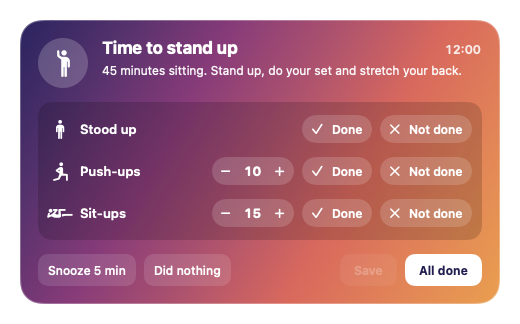
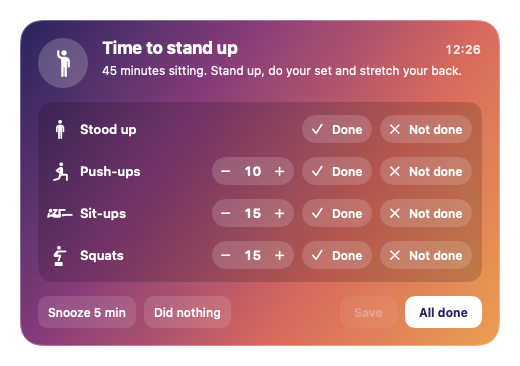
docs: describe the exercise catalog, alert styles, themes and the configurable interval

diff --git a/README.pt-BR.md b/README.pt-BR.md
@@ -1,13 +1,15 @@
-# Rise: lembrete para levantar da cadeira, com flexões e abdominais, para Mac
+# Rise: lembrete para levantar da cadeira e treino em casa para Mac
 
 O **Rise** é um **app gratuito e de código aberto para a barra de menus do macOS** que lembra você de **levantar da
-cadeira a cada 45 minutos** durante o expediente e pergunta se você fez as **flexões e os abdominais**. Cada resposta
-vai para um **histórico com gráficos em linha**, para você ver quanto se mexeu em cada dia e fugir do sedentarismo
-de passar o dia sentado. É uma pausa ativa, uma ginástica laboral no seu ritmo.
+cadeira no intervalo que você escolher** (a cada 45 minutos, por padrão) durante o expediente e pergunta se você fez
+**a sua série de exercícios**: flexões, abdominais, agachamentos, prancha ou qualquer um dos 15 exercícios sem
+equipamento para fazer em casa ou no escritório. Cada resposta vai para um **histórico com gráficos em linha**, para
+você ver quanto se mexeu em cada dia e fugir do sedentarismo de passar o dia sentado. É uma pausa ativa, uma ginástica
+laboral no seu ritmo.
 
 🇺🇸 [Read in English](README.md)
 
-<p align="center"><img src="docs/images/card-pt.png" width="480" alt="Cartão do Rise: levantei, flexões e abdominais, cada um com Fiz ou Não fiz"></p>
+<p align="center"><img src="docs/images/card-pt.png" width="480" alt="Cartão do Rise: levantei, flexões, abdominais e agachamentos, cada um com Fiz ou Não fiz"></p>
 
 ## Baixar
 
@@ -22,16 +24,23 @@ com Apple Silicon e Intel, macOS 14 Sonoma ou mais novo.
 
 ## O que ele faz
 
-- **Lembrete para levantar** a cada 45 minutos no horário de trabalho (início, fim, intervalo e dias da semana você
-  escolhe).
-- **Um cartão que fica na tela** até você responder: por cima de qualquer app, mesa e tela cheia, sem roubar o foco
-  do teclado.
-- **Controle de flexões e abdominais**: marque *Fiz* ou *Não fiz* para levantar, flexões e abdominais, e ajuste o
-  número antes de salvar. *Fiz tudo*, *Não fiz nada* e *Adiar 5 min* são um clique.
+- **Lembrete para levantar** no intervalo que você escolher (45 minutos por padrão), no seu horário de trabalho;
+  início, fim, intervalo e dias da semana, tudo configurável.
+- **Configuração na primeira abertura**: na primeira vez o Rise pergunta o seu horário, os seus exercícios, o tipo
+  de alerta e a música.
+- **A sua série de exercícios**, até 7 por aviso, de um catálogo de 15 exercícios em casa com o músculo que cada um
+  trabalha: flexões (peito, ombros e tríceps), abdominais (abdômen), agachamentos, afundos, elevação de quadril,
+  elevação de panturrilha, mergulho na cadeira, polichinelos, burpees, escaladores, elevação de pernas,
+  super-homem, prancha, cadeirinha na parede e alongamento. Em repetições ou segundos, com o seu número para cada um.
+- **Um cartão que espera** a sua resposta: marque *Fiz* ou *Não fiz* para levantar e para cada exercício, e ajuste
+  o número. *Fiz tudo*, *Não fiz nada* e *Adiar 5 min* são um clique. Ele não rouba o foco do teclado.
+- **Quatro tipos de alerta**: cartão no canto, cartão no meio da tela, tela cheia (a tela escurece até você
+  responder) ou discreto (só o ícone da barra e a música).
 - **Música no aviso**: escolha um dos toques musicais que vêm no macOS ou use uma música sua, com volume e botão
   para ouvir antes.
-- **Histórico com gráficos em linha** de 7 e 30 dias (flexões, abdominais e levantadas por dia) e a lista de todos
-  os avisos, inclusive os que ficaram sem resposta. Dá para apagar um registro errado.
+- **Histórico com gráficos em linha** de 7 e 30 dias (repetições, exercícios de tempo e levantadas por dia) e a lista
+  de todos os avisos, inclusive os que ficaram sem resposta. Dá para apagar um registro errado.
+- **Temas**: Nascer do sol, Oceano, Floresta, Uva, Grafite e Brasa, no modo claro, escuro ou automático.
 - **Menu na barra**: próximo aviso, o total de hoje, registrar uma série à mão, pular o próximo aviso, pausar hoje.
 - **Português do Brasil e inglês**, automático ou escolhido em Ajustes.
 - **Privado**: sem conta, sem internet, sem rastreio. Tudo fica no seu Mac, em
@@ -41,8 +50,11 @@ com Apple Silicon e Intel, macOS 14 Sonoma ou mais novo.
 ## Telas
 
 <p align="center">
-  <img src="docs/images/today-pt.png" width="380" alt="Aba Hoje do Rise: próximo aviso, levantadas, flexões e abdominais do dia">
-  <img src="docs/images/history-pt.png" width="380" alt="Aba Histórico do Rise: gráficos em linha de flexões, abdominais e levantadas por dia">
+  <img src="docs/images/today-pt.png" width="380" alt="Aba Hoje do Rise: próximo aviso e as levantadas, flexões, abdominais e agachamentos do dia">
+  <img src="docs/images/history-pt.png" width="380" alt="Aba Histórico do Rise: gráficos em linha de repetições, segundos de prancha e levantadas por dia">
+</p>
+<p align="center">
+  <img src="docs/images/setup-pt.png" width="380" alt="Configuração do Rise na primeira abertura: horário, exercícios, tipo de alerta e música">
 </p>
 
 ## Gerar a partir do código

diff --git a/README.md b/README.md
@@ -1,12 +1,14 @@
-# Rise: stand-up reminder with push-ups and sit-ups for macOS
+# Rise: stand-up reminder and home workout tracker for macOS
 
-**Rise** is a free and open-source **macOS menu bar app** that reminds you to **stand up every 45 minutes** while you
-work, and asks whether you did your **push-ups and sit-ups**. Every answer goes into a **workout history with line
-charts**, so you can see how much you moved each day instead of sitting all day at the desk.
+**Rise** is a free and open-source **macOS menu bar app** that reminds you to **stand up at the interval you choose**
+(every 45 minutes by default) while you work, and asks whether you did **your set of exercises**: push-ups, sit-ups,
+squats, plank or any of 15 bodyweight exercises you can do at home or in the office. Every answer goes into a
+**workout history with line charts**, so you can see how much you moved each day instead of sitting all day at the
+desk.
 
 🇧🇷 [Leia em português](README.pt-BR.md)
 
-<p align="center"><img src="docs/images/card-en.png" width="480" alt="Rise check-in card: stood up, push-ups and sit-ups, each marked Done or Not done"></p>
+<p align="center"><img src="docs/images/card-en.png" width="480" alt="Rise check-in card: stood up, push-ups, sit-ups and squats, each marked Done or Not done"></p>
 
 ## Download
 
@@ -21,15 +23,22 @@ Silicon and Intel Macs, macOS 14 Sonoma or later.
 
 ## Features
 
-- **Stand-up reminder** every 45 minutes in work hours (start, end, interval and weekdays are configurable).
-- **A check-in card that stays** on screen until you answer: over every app, Space and full-screen window, and it
-  never steals the keyboard focus.
-- **Push-up and sit-up tracker**: mark *Done* or *Not done* for standing up, push-ups and sit-ups, and adjust the
-  count before saving. *All done*, *Did nothing* and *Snooze 5 min* are one click.
+- **Stand-up reminder** at the interval you choose (45 minutes by default) in your work hours; start, end, interval
+  and weekdays are all configurable.
+- **First-run setup**: the first time Rise opens it asks for your hours, your exercises, your alert and your music.
+- **Your own exercise set**, up to 7 per reminder, from a catalog of 15 home exercises with the muscles each one
+  works: push-ups (chest, shoulders and triceps), sit-ups (abs), squats, lunges, glute bridges, calf raises, chair
+  dips, jumping jacks, burpees, mountain climbers, leg raises, supermans, plank, wall sit and stretching. Reps or
+  seconds, your number for each.
+- **A check-in card that waits** for your answer: mark *Done* or *Not done* for standing up and each exercise, and
+  adjust the count. *All done*, *Did nothing* and *Snooze 5 min* are one click. It never steals the keyboard focus.
+- **Four alert styles**: a card in the corner, a card in the middle of the screen, full screen (the screen dims
+  until you answer) or discreet (only the menu bar icon and the music).
 - **Music on the reminder**: pick one of the musical ringtones built into macOS or use your own song, with a volume
   control and a preview.
-- **History with line charts** for 7 and 30 days (push-ups, sit-ups and stand-ups per day) and the full log of
+- **History with line charts** for 7 and 30 days (reps, timed exercises and stand-ups per day) and the full log of
   every reminder, including the ones left without an answer. A wrong entry can be deleted.
+- **Themes**: Sunrise, Ocean, Forest, Grape, Graphite and Ember, in light, dark or automatic mode.
 - **Menu bar menu**: next reminder, today's totals, log a set by hand, skip the next reminder, pause for today.
 - **English and Brazilian Portuguese**, automatic or chosen in Settings.
 - **Private**: no account, no network, no tracking. Everything stays on your Mac in
@@ -39,8 +48,11 @@ Silicon and Intel Macs, macOS 14 Sonoma or later.
 ## Screenshots
 
 <p align="center">
-  <img src="docs/images/today-en.png" width="380" alt="Rise Today tab: next reminder, today's stand-ups, push-ups and sit-ups">
-  <img src="docs/images/history-en.png" width="380" alt="Rise History tab: line charts of push-ups, sit-ups and stand-ups per day">
+  <img src="docs/images/today-en.png" width="380" alt="Rise Today tab: next reminder and today's stand-ups, push-ups, sit-ups and squats">
+  <img src="docs/images/history-en.png" width="380" alt="Rise History tab: line charts of reps, plank seconds and stand-ups per day">
+</p>
+<p align="center">
+  <img src="docs/images/setup-en.png" width="380" alt="Rise first-run setup: work hours, exercises, alert style and music">
 </p>
 
 ## Build from source

diff --git a/CLAUDE.md b/CLAUDE.md
@@ -1,8 +1,9 @@
 # Rise
 
-A macOS menu bar app, open source under MIT, that reminds you to stand up and do a set (push-ups and sit-ups) every
-45 minutes in work hours. Each alarm opens a floating check-in card that stays until it is answered and plays music
-(macOS's own ringtones or the user's song); every answer goes to a history with line charts. No Dock icon
+A macOS menu bar app, open source under MIT, that reminds you to stand up and do a set of home exercises (chosen
+from a catalog of 15, up to 7) at a configurable interval in work hours. Each alarm opens a check-in card in one of
+four alert styles that stays until it is answered and plays music (macOS's own ringtones or the user's song); every
+answer goes to a history with line charts. A first-run setup asks for everything; six color themes. No Dock icon
 (`LSUIElement`), no system notifications. Swift 6.1 toolchain from the Command Line Tools (no Xcode), SwiftPM,
 AppKit with SwiftUI views and Swift Charts, macOS 14 or later, universal binary (arm64 and x86_64).
 
@@ -11,7 +12,7 @@ AppKit with SwiftUI views and Swift Charts, macOS 14 or later, universal binary 
 | Path | What lives there |
 | --- | --- |
 | `Sources/RiseCore` | Pure and tested with swift-testing: the alarm planner and the history (entries, day totals, the JSON file). |
-| `Sources/Rise` | The app: `AppDelegate` (menu bar item and menu), `Store` (state, alarms, check-ins), `CheckInPanel`, `Music`, `Strings` (every visible text in English and Portuguese), `ContentView` (tabs), `HistoryView` (charts and list), `SelfTest`. |
+| `Sources/Rise` | The app: `AppDelegate` (menu bar item and menu), `Store` (state, alarms, check-ins), `Exercise` (catalog, the owner's set, color slots), `CheckInPanel` (card and alert styles), `Look` (themes), `Music`, `Strings` (every visible text in English and Portuguese), `ContentView` (tabs, setup), `HistoryView` (charts and list), `SelfTest`. |
 | `Resources/Info.plist` | Bundle id `com.vsssp.rise`, the version, `LSUIElement`. |
 | `scripts/make-icon.swift` | Draws the icon. |
 | `scripts/build.sh` | Tests, universal app bundle in a temp folder, icon, ad-hoc signature, self-test and the dmg in `dist/`; `--install` swaps `/Applications/Rise.app` and restarts it. |
@@ -22,10 +23,10 @@ AppKit with SwiftUI views and Swift Charts, macOS 14 or later, universal binary 
 - `swift test` runs the planner and history tests.
 - `scripts/build.sh [--install]` builds `dist/Rise-<version>.dmg`, runs the self-test inside the bundle and, with
   `--install`, updates the installed app in place (the owner never reinstalls by hand).
-- `swift run Rise --self-test` lays every screen out and walks the check-in rules on a scratch history.
-- `swift run Rise --snapshot <file.png> [--tab today|history|settings] [--lang en|pt] [--dark]` renders the window.
-- `swift run Rise --snapshot-alert <file.png> [--kind alarm|manual] [--lang en|pt] [--dark]` renders the card.
-- `Rise --log <push-ups> <sit-ups>` records a set by hand in the real history; `Rise --ring-test` opens the test card.
+- `swift run Rise --self-test` lays every screen out and walks the check-in and exercise-set rules on scratch data.
+- `swift run Rise --snapshot <file.png> [--tab today|history|settings|setup] [--lang en|pt] [--exercises a,b] [--dark]`.
+- `swift run Rise --snapshot-alert <file.png> [--kind alarm|manual] [--lang en|pt] [--exercises a,b] [--dark]`.
+- `Rise --log pushups=5 situps=7` records a set by hand in the real history; `Rise --ring-test` opens the test card.
 
 ## Rules
 
@@ -33,6 +34,9 @@ AppKit with SwiftUI views and Swift Charts, macOS 14 or later, universal binary 
 - Every new dmg raises `CFBundleShortVersionString` and `CFBundleVersion` in `Resources/Info.plist`.
 - No `Rise.app` stays on disk besides the installed one: Spotlight and Launchpad list every copy.
 - The history is `~/Library/Application Support/Rise/history.json`; an unreadable file is moved aside, never overwritten.
+  Old files (push-ups and sit-ups as fields) still load.
+- The self-test and snapshots use only scratch data: the `com.vsssp.rise.selftest` domain and a temp history file.
+- The owner's own set is 5 push-ups and 7 sit-ups (2026-11-18); the catalog default stays 10 and 15.
 - Commits are in English, conventional commits, with no AI co-author or attribution trailer.
 - A comment is one line of at most 100 characters.
 - Every text the user sees lives in `Strings`, in English (the main language) and Brazilian Portuguese.
